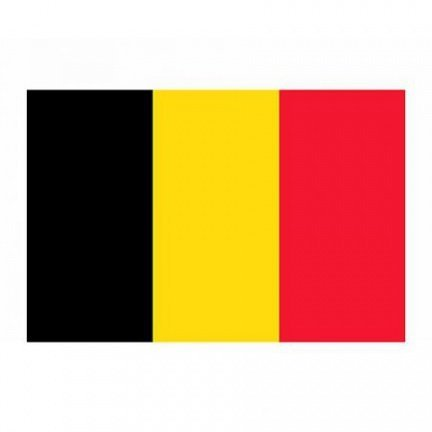
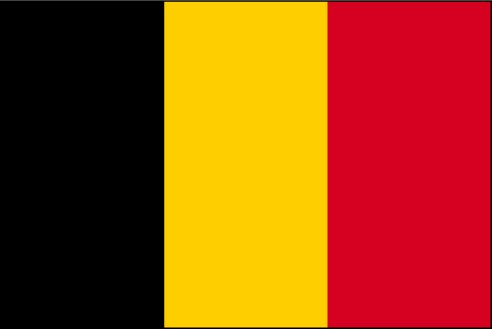
Add styling with TailWind CSS

diff --git a/resources/views/app.blade.php b/resources/views/app.blade.php
@@ -8,16 +8,21 @@
 
         <!-- Fonts -->
         <link href="https://fonts.googleapis.com/css2?family=Nunito:wght@400;600;700&display=swap" rel="stylesheet">
+        <link href="https://unpkg.com/tailwindcss@^2/dist/tailwind.min.css" rel="stylesheet">
 
       
     </head>
-    <body>
-        @yield('content')
+    <body class="py-6 flex flex-col justify-between items-center min-h-screen">
+        <main class="flex flex-col justify-center items-center">
+            @yield('content')
+        </main>
+       
         <footer>
-            <p>&copy; Copyright {{date('Y')}} 
+            <p class="text-gray-400">
+                &copy; Copyright {{date('Y')}} 
 
                 @if (! Route::is('about'))
-                &middot; <a href="{{route('about')}}">About Us</a>
+                &middot; <a class="text-red-500 hover:text-red-600 underline" href="{{route('about')}}">About Us</a>
                 @endif
                
             </p>

diff --git a/resources/views/pages/about.blade.php b/resources/views/pages/about.blade.php
@@ -4,12 +4,12 @@
 
 
 @section('content')
-<img src="{{asset('images/profile.png')}}" alt="Mike Hanon">
+<img class="rounded-full shadow-md my-12" src="{{asset('images/profile.png')}}" alt="Mike Hanon">
 
-    <p>Built with &hearts; By Mike Hanon.</p>
+    <h2 class="text-gray-700 mb-5 text-2xl sm:text-3xl">Built with <span class="text-pink-500">&hearts;</span>  By Mike Hanon.</h2>
 
     <p>
-        <a href="{{route('home')}}">Revenir à la page d'accueil</a>
+        <a class="text-red-500 hover:text-red-600 underline" href="{{route('home')}}">Revenir à la page d'accueil</a>
     </p>
    
 @endsection

diff --git a/resources/views/pages/home.blade.php b/resources/views/pages/home.blade.php
@@ -1,11 +1,11 @@
 @extends('app')
 
 @section('content')
-      <img src="{{asset('images/Flag_of_Belgium.jpg')}}" alt="Belgiun flag">
+      <img class="rounded shadow-md h-60 mt-12" src="{{asset('images/Flag_of_Belgium.jpg')}}" alt="Belgiun flag">
 
-        <h1>hello from Belgium! </h1>
+        <h1 class="text-red-600 text-3xl sm:text-5xl font-semibold mt-10">hello from Belgium! </h1>
 
-        <p>It's currently {{date('h:i A')}} .</p>
+        <p class="text-gray-800 text-lg mt-5">It's currently {{date('h:i A')}} .</p>
 
     
   @endsection
